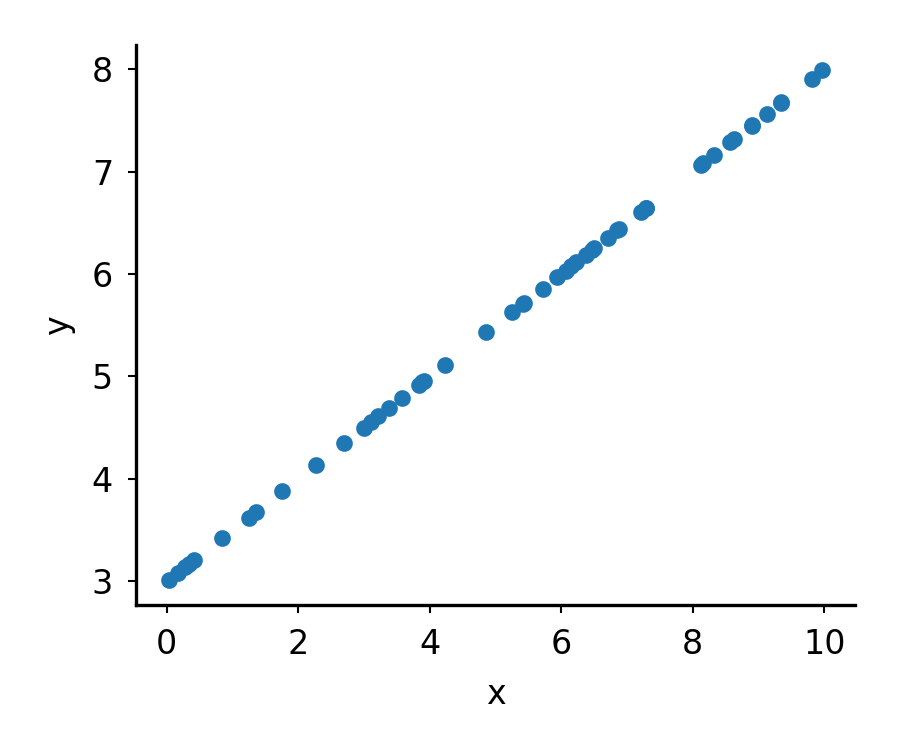
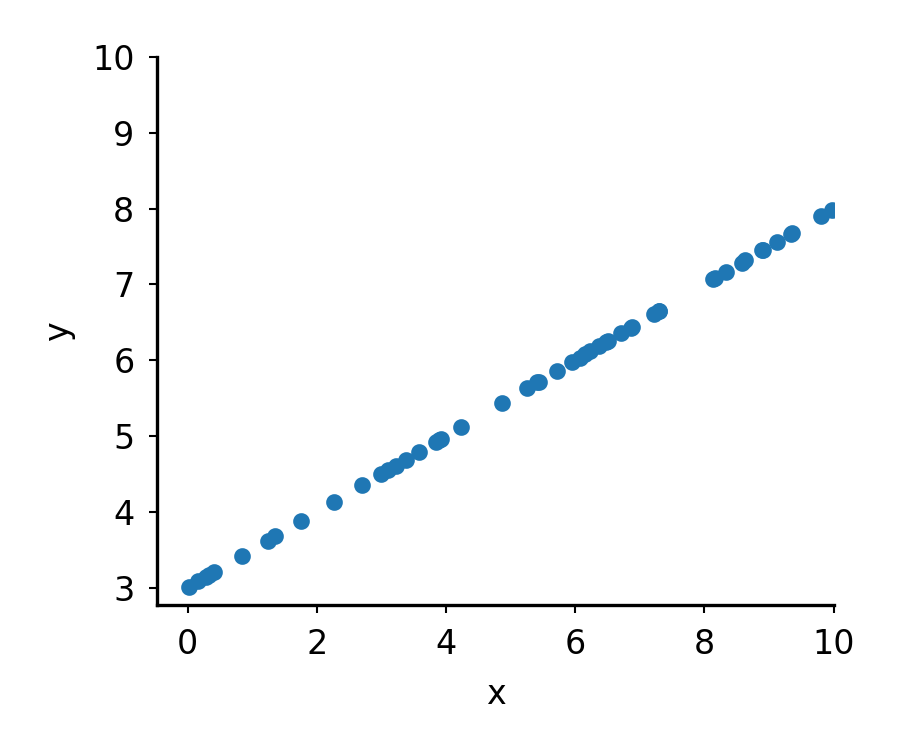
.

diff --git a/README.md b/README.md
@@ -52,7 +52,9 @@ tail -n +2 out/line_0.5x_3_no_noise.tsv \
     --markerfacecolor tab:blue \
     --width 3 \
     --height 2.5 \
-    --line_style o
+    --line_style o \
+    --y_min 0 --y_max 10 \
+    --x_min 0 --x_max 10 
 
 python src/make_line_dataset.py \
     -w 2 \
